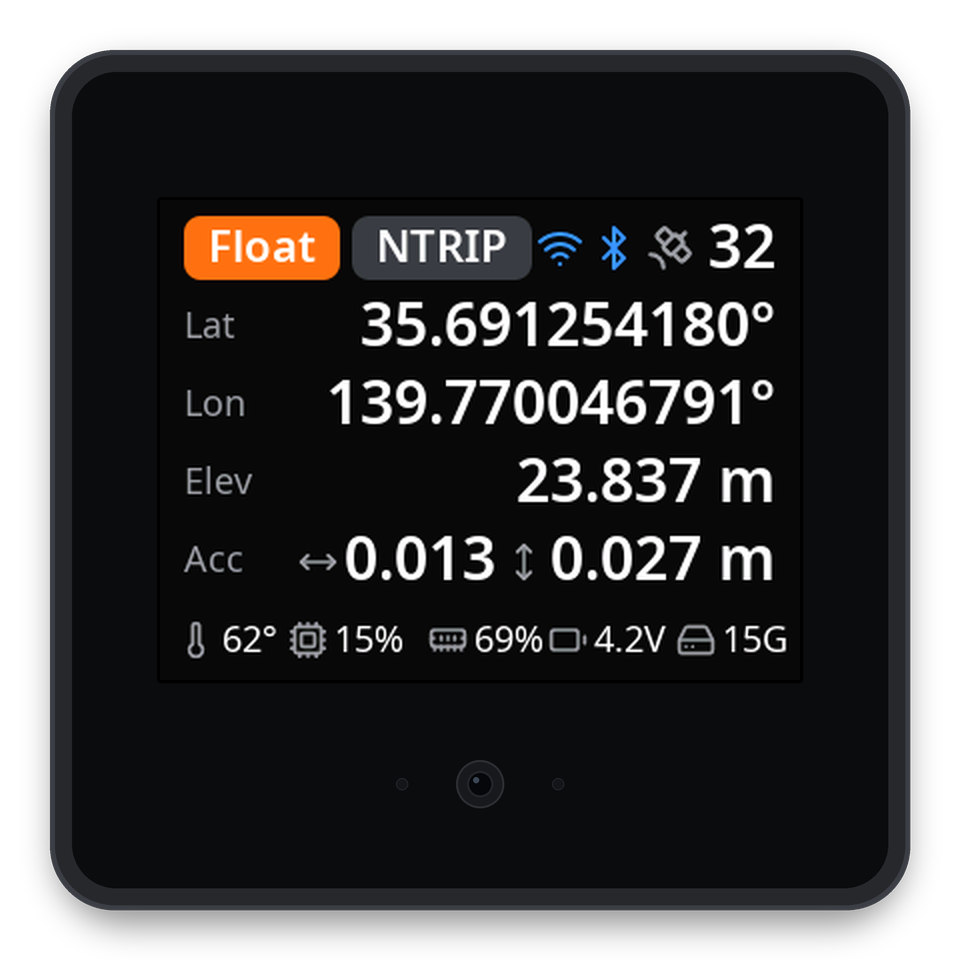
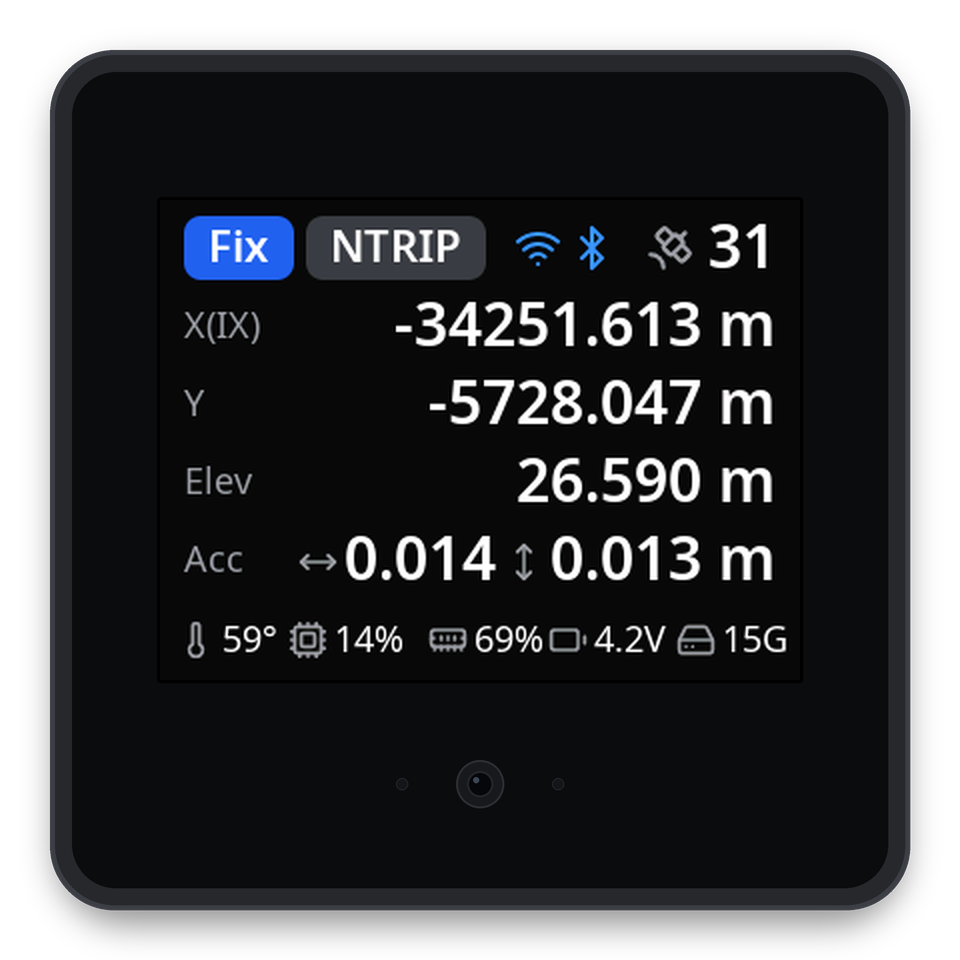
本体と Windows アプリの画面の画像を取り直した
・本体: 全画面を今の表示で撮り直し、遷移図と README の本体の画像も作り直した。
・Windows: 全画面を撮り直し、測位タブの画像を加えた。
・Wi-Fi の SSID、IP アドレス、MAC アドレス、BLE のアドレス、API キーはモザイク。

diff --git a/docs/screens-windows.md b/docs/screens-windows.md
@@ -48,6 +48,8 @@ BLE で初めて接続するときは、本体の画面に6桁の番号が出て
 
 ## 測位
 
+![測位](images/windows/live.png)
+
 本体の画面の Status と同じ項目を、大きな文字で表示します。屋外で端末を表示器として見るときに使います。見出しは本体の画面と同じく英語で、1行に見出しと値(右寄せ)を並べます。
 
 - 上段: 測位の状態と補正の方法のバッジ、ログの保存中の `REC`(点滅する赤い丸)、衛星数
